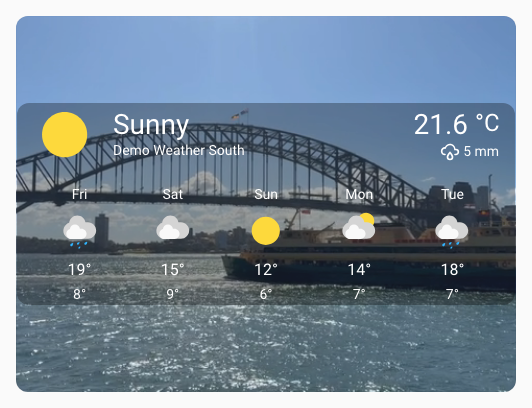
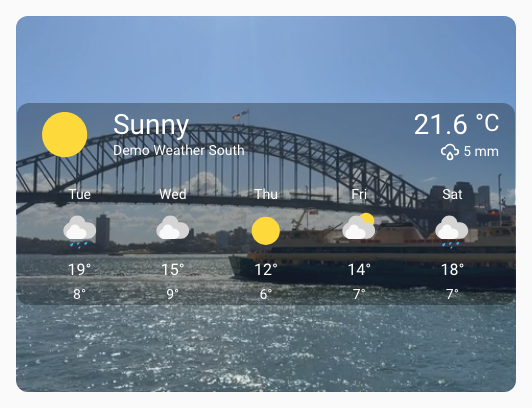
docs: Tweaks after final review

diff --git a/docs/source/forge/sparks/background.md b/docs/source/forge/sparks/background.md
@@ -174,7 +174,7 @@ forge:
       for: hui-button-card $ ha-card
       camera_entity: camera.demo_camera
       camera_zoom: 1.3
-      camera_position: top-left
+      camera_position: bottom-left
 element:
   type: button
   entity: light.bed_light